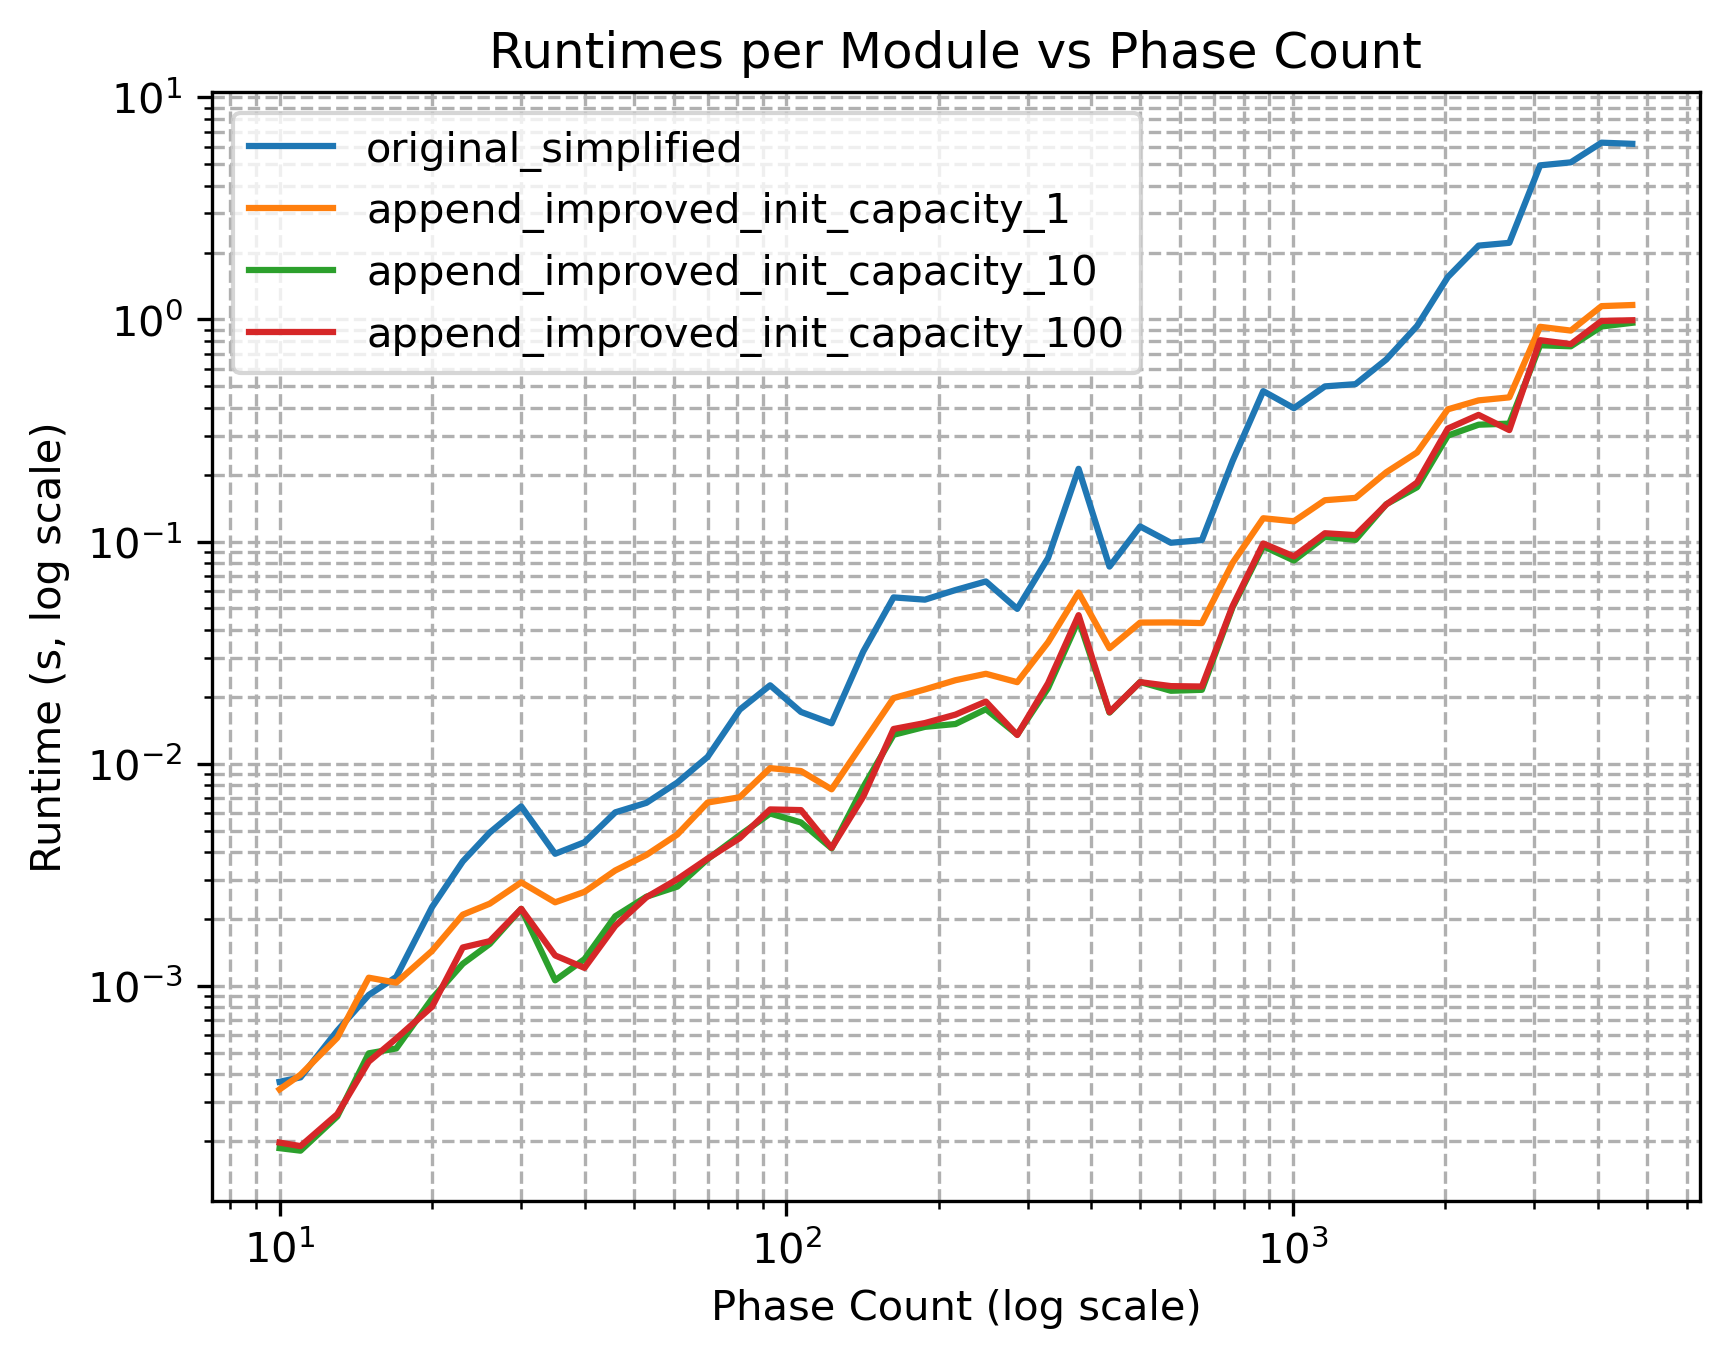
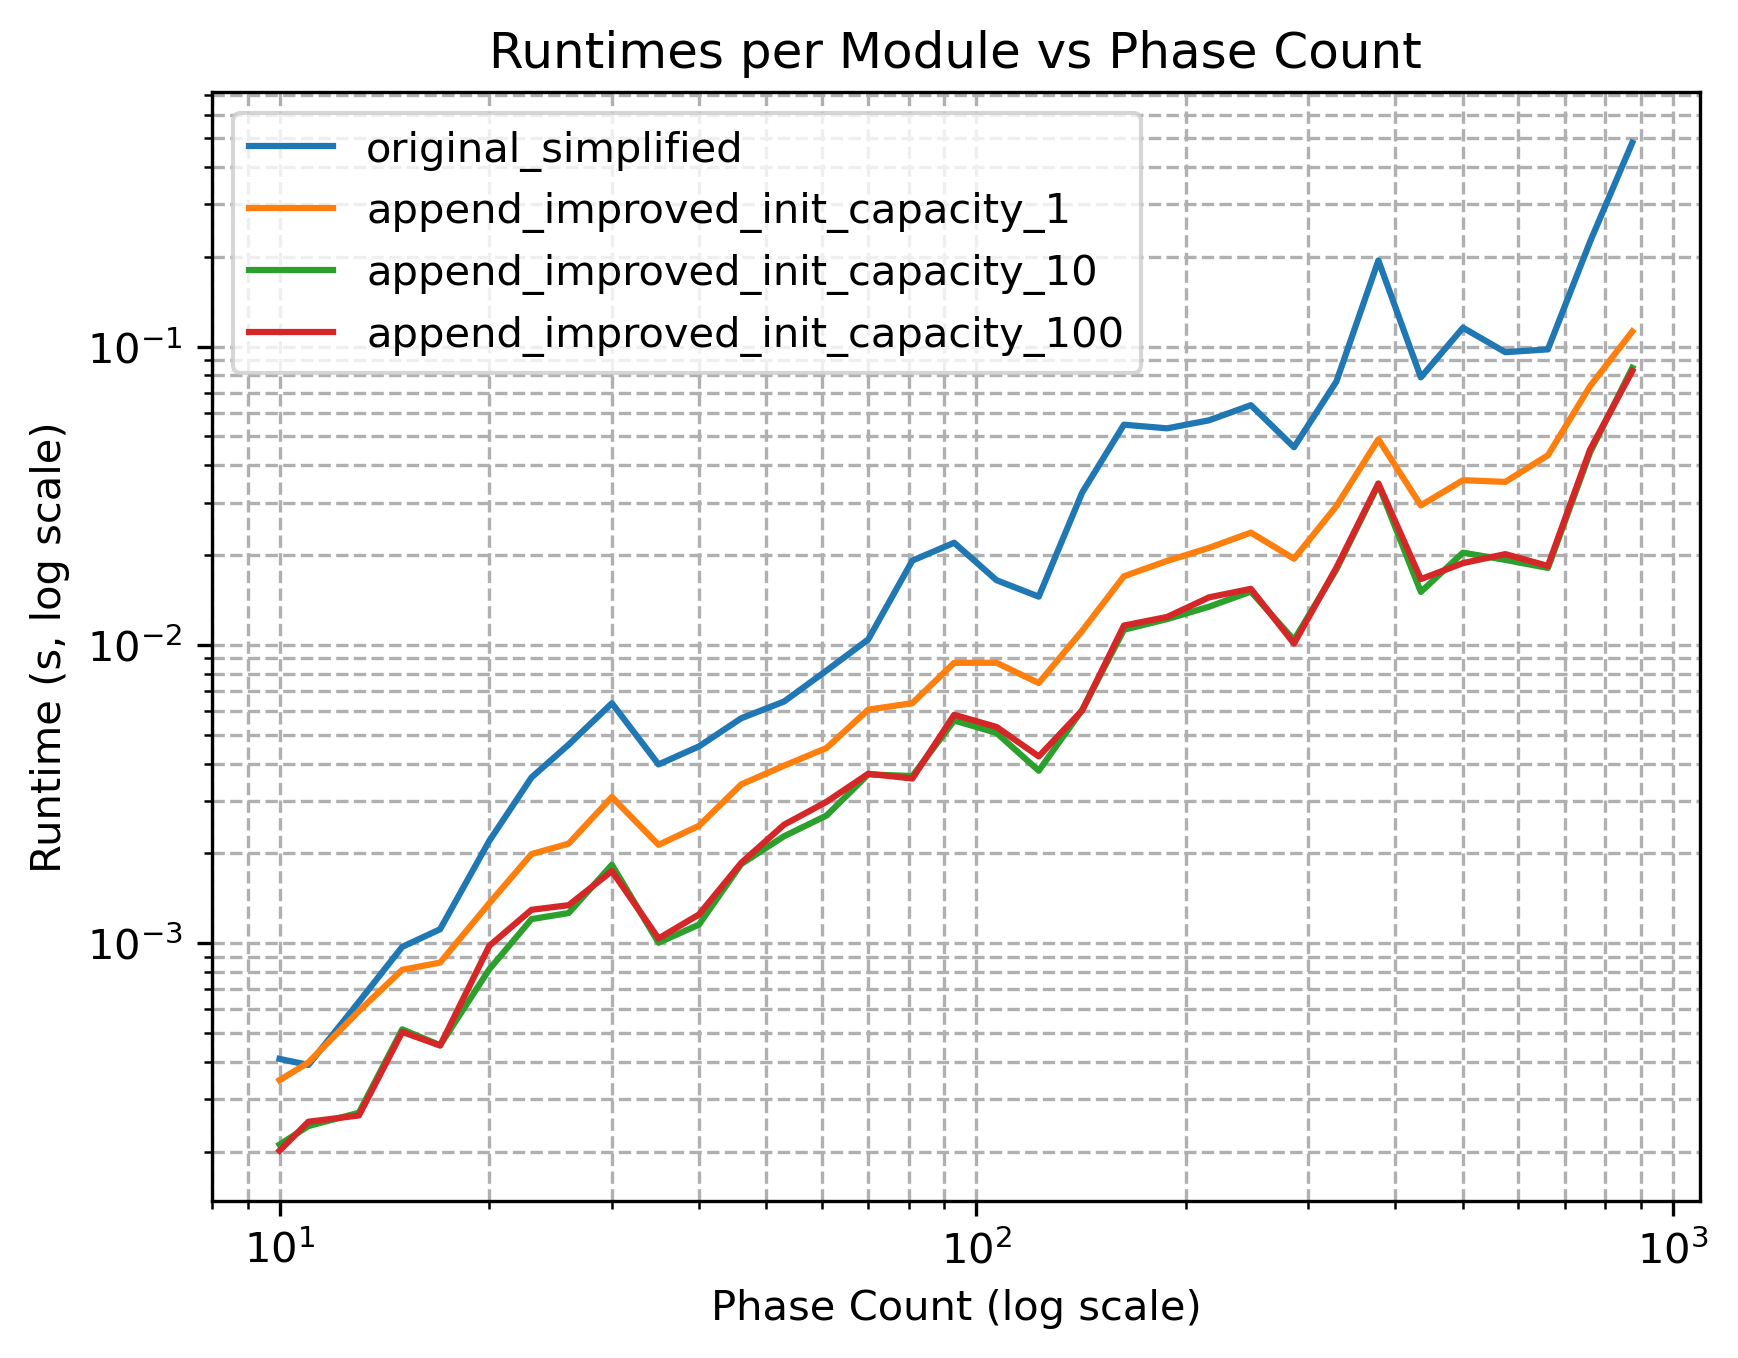
improved append version improved

Changed region(s): [[0.0312, 0.0309, 0.9994, 0.9278], [0.406, 0.8969, 0.6871, 0.9897], [0.1562, 0.8969, 0.1874, 0.9278]]

diff --git a/versions/append_improved_init_capacity_1/effective_energy_shift.py b/versions/append_improved_init_capacity_1/effective_energy_shift.py
@@ -31,11 +31,6 @@ def balance_phase(phase: efes_dataclasses.Phase):
 
         phase.energy_excess[phase.size_excess - 1] = phase.energy_deficit[phase.size_deficit - 1]
 
-        #phase.starts_excess = np.append(phase.starts_excess, new_start)
-        #phase.energy_excess = np.append(phase.energy_excess, energy_remaining)
-        #phase.excess_balanced = np.append(phase.excess_balanced, False)
-        #phase.excess_ids = np.append(phase.excess_ids, phase.excess_ids[phase.size_excess - 1])
-
         phase.append_excess(new_start, energy_remaining, False, phase.excess_ids[phase.size_excess - 1])
 
 
@@ -49,10 +44,6 @@ def balance_phase(phase: efes_dataclasses.Phase):
 
     phase.energy_deficit[phase.size_deficit - 1] = phase.energy_excess[phase.size_excess - 1]
     phase.deficit_balanced[phase.size_deficit - 1] = True
-
-    #phase.starts_deficit = np.append(phase.starts_deficit, new_start)
-    #phase.energy_deficit = np.append(phase.energy_deficit, energy_remaining)
-    #phase.deficit_balanced = np.append(phase.deficit_balanced, False)
 
     phase.append_deficit(new_start, energy_remaining, False)
 
@@ -83,23 +74,6 @@ def calculate_virtual_excess(current_phase, next_phase):
 
     return virtual_excess_start, virtual_excess_content, virtual_excess_id
 
-def add_excess_to_phase(phase, excess_start, excess_content, excess_id):
-    #phase.starts_excess = np.append(phase.starts_excess, excess_start)
-    #phase.energy_excess = np.append(phase.energy_excess, excess_content)
-    #phase.excess_balanced = np.append(phase.excess_balanced, False)
-    #phase.excess_ids = np.append(phase.excess_ids, excess_id)
-    phase.append_excess(excess_start, excess_content, False, excess_id)
-
-
-
-def remove_excess(phase, index_to_remove):
-    #phase.energy_excess = np.delete(phase.energy_excess, obj=index_to_remove)
-    #phase.starts_excess = np.delete(phase.starts_excess, obj=index_to_remove)
-    #phase.excess_balanced = np.delete(phase.excess_balanced, obj=index_to_remove)
-    #phase.excess_ids = np.delete(phase.excess_ids, obj=index_to_remove)
-    phase.remove_excess(index_to_remove)
-
-
 
 def move_overflow(phases, mask, callback_between_steps:callable = None, callback_kwargs={}):
 
@@ -112,19 +86,20 @@ def move_overflow(phases, mask, callback_between_steps:callable = None, callback
     virtual_excess = list(map(lambda args: calculate_virtual_excess(*args), zip(current_phases, next_phases)))
 
     # place virtual excess in next phase
-    list(map(lambda args: add_excess_to_phase(args[0], *args[1]), zip(phases[next_indices], virtual_excess)))
 
+    list(map(lambda args: args[0].append_excess(args[1][0], args[1][1], False, args[1][2]),
+             zip(phases[next_indices], virtual_excess)))
 
 
     if process_callback(callback_between_steps, 'shift', phases, mask, **callback_kwargs):
         return phases, mask, True
 
     # remove excess at index -2 where we had excess (mask[0]) and where virtual excess has been added (np.roll(mask[0], shift=1))
-    list(map(lambda phase: remove_excess(phase, -2), phases[mask[0] & add_virtual_excess_mask]))
+    list(map(lambda phase:  phase.remove_excess(-2), phases[mask[0] & add_virtual_excess_mask]))
 
 
     # remove excess at index -1 where we had excess (mask[0]) and no virtual excess has been added (not np.roll(mask[0], shift=1))
-    list(map(lambda phase: remove_excess(phase, -1), phases[mask[0] & ~add_virtual_excess_mask]))
+    list(map(lambda phase: phase.remove_excess(-1), phases[mask[0] & ~add_virtual_excess_mask]))
 
     # print(phases)
 

diff --git a/versions/append_improved_init_capacity_10/effective_energy_shift.py b/versions/append_improved_init_capacity_10/effective_energy_shift.py
@@ -31,11 +31,6 @@ def balance_phase(phase: efes_dataclasses.Phase):
 
         phase.energy_excess[phase.size_excess - 1] = phase.energy_deficit[phase.size_deficit - 1]
 
-        #phase.starts_excess = np.append(phase.starts_excess, new_start)
-        #phase.energy_excess = np.append(phase.energy_excess, energy_remaining)
-        #phase.excess_balanced = np.append(phase.excess_balanced, False)
-        #phase.excess_ids = np.append(phase.excess_ids, phase.excess_ids[phase.size_excess - 1])
-
         phase.append_excess(new_start, energy_remaining, False, phase.excess_ids[phase.size_excess - 1])
 
 
@@ -49,10 +44,6 @@ def balance_phase(phase: efes_dataclasses.Phase):
 
     phase.energy_deficit[phase.size_deficit - 1] = phase.energy_excess[phase.size_excess - 1]
     phase.deficit_balanced[phase.size_deficit - 1] = True
-
-    #phase.starts_deficit = np.append(phase.starts_deficit, new_start)
-    #phase.energy_deficit = np.append(phase.energy_deficit, energy_remaining)
-    #phase.deficit_balanced = np.append(phase.deficit_balanced, False)
 
     phase.append_deficit(new_start, energy_remaining, False)
 
@@ -83,23 +74,6 @@ def calculate_virtual_excess(current_phase, next_phase):
 
     return virtual_excess_start, virtual_excess_content, virtual_excess_id
 
-def add_excess_to_phase(phase, excess_start, excess_content, excess_id):
-    #phase.starts_excess = np.append(phase.starts_excess, excess_start)
-    #phase.energy_excess = np.append(phase.energy_excess, excess_content)
-    #phase.excess_balanced = np.append(phase.excess_balanced, False)
-    #phase.excess_ids = np.append(phase.excess_ids, excess_id)
-    phase.append_excess(excess_start, excess_content, False, excess_id)
-
-
-
-def remove_excess(phase, index_to_remove):
-    #phase.energy_excess = np.delete(phase.energy_excess, obj=index_to_remove)
-    #phase.starts_excess = np.delete(phase.starts_excess, obj=index_to_remove)
-    #phase.excess_balanced = np.delete(phase.excess_balanced, obj=index_to_remove)
-    #phase.excess_ids = np.delete(phase.excess_ids, obj=index_to_remove)
-    phase.remove_excess(index_to_remove)
-
-
 
 def move_overflow(phases, mask, callback_between_steps:callable = None, callback_kwargs={}):
 
@@ -112,19 +86,20 @@ def move_overflow(phases, mask, callback_between_steps:callable = None, callback
     virtual_excess = list(map(lambda args: calculate_virtual_excess(*args), zip(current_phases, next_phases)))
 
     # place virtual excess in next phase
-    list(map(lambda args: add_excess_to_phase(args[0], *args[1]), zip(phases[next_indices], virtual_excess)))
 
+    list(map(lambda args: args[0].append_excess(args[1][0], args[1][1], False, args[1][2]),
+             zip(phases[next_indices], virtual_excess)))
 
 
     if process_callback(callback_between_steps, 'shift', phases, mask, **callback_kwargs):
         return phases, mask, True
 
     # remove excess at index -2 where we had excess (mask[0]) and where virtual excess has been added (np.roll(mask[0], shift=1))
-    list(map(lambda phase: remove_excess(phase, -2), phases[mask[0] & add_virtual_excess_mask]))
+    list(map(lambda phase:  phase.remove_excess(-2), phases[mask[0] & add_virtual_excess_mask]))
 
 
     # remove excess at index -1 where we had excess (mask[0]) and no virtual excess has been added (not np.roll(mask[0], shift=1))
-    list(map(lambda phase: remove_excess(phase, -1), phases[mask[0] & ~add_virtual_excess_mask]))
+    list(map(lambda phase: phase.remove_excess(-1), phases[mask[0] & ~add_virtual_excess_mask]))
 
     # print(phases)
 

diff --git a/versions/append_improved_init_capacity_100/effective_energy_shift.py b/versions/append_improved_init_capacity_100/effective_energy_shift.py
@@ -31,11 +31,6 @@ def balance_phase(phase: efes_dataclasses.Phase):
 
         phase.energy_excess[phase.size_excess - 1] = phase.energy_deficit[phase.size_deficit - 1]
 
-        #phase.starts_excess = np.append(phase.starts_excess, new_start)
-        #phase.energy_excess = np.append(phase.energy_excess, energy_remaining)
-        #phase.excess_balanced = np.append(phase.excess_balanced, False)
-        #phase.excess_ids = np.append(phase.excess_ids, phase.excess_ids[phase.size_excess - 1])
-
         phase.append_excess(new_start, energy_remaining, False, phase.excess_ids[phase.size_excess - 1])
 
 
@@ -49,10 +44,6 @@ def balance_phase(phase: efes_dataclasses.Phase):
 
     phase.energy_deficit[phase.size_deficit - 1] = phase.energy_excess[phase.size_excess - 1]
     phase.deficit_balanced[phase.size_deficit - 1] = True
-
-    #phase.starts_deficit = np.append(phase.starts_deficit, new_start)
-    #phase.energy_deficit = np.append(phase.energy_deficit, energy_remaining)
-    #phase.deficit_balanced = np.append(phase.deficit_balanced, False)
 
     phase.append_deficit(new_start, energy_remaining, False)
 
@@ -83,23 +74,6 @@ def calculate_virtual_excess(current_phase, next_phase):
 
     return virtual_excess_start, virtual_excess_content, virtual_excess_id
 
-def add_excess_to_phase(phase, excess_start, excess_content, excess_id):
-    #phase.starts_excess = np.append(phase.starts_excess, excess_start)
-    #phase.energy_excess = np.append(phase.energy_excess, excess_content)
-    #phase.excess_balanced = np.append(phase.excess_balanced, False)
-    #phase.excess_ids = np.append(phase.excess_ids, excess_id)
-    phase.append_excess(excess_start, excess_content, False, excess_id)
-
-
-
-def remove_excess(phase, index_to_remove):
-    #phase.energy_excess = np.delete(phase.energy_excess, obj=index_to_remove)
-    #phase.starts_excess = np.delete(phase.starts_excess, obj=index_to_remove)
-    #phase.excess_balanced = np.delete(phase.excess_balanced, obj=index_to_remove)
-    #phase.excess_ids = np.delete(phase.excess_ids, obj=index_to_remove)
-    phase.remove_excess(index_to_remove)
-
-
 
 def move_overflow(phases, mask, callback_between_steps:callable = None, callback_kwargs={}):
 
@@ -112,19 +86,20 @@ def move_overflow(phases, mask, callback_between_steps:callable = None, callback
     virtual_excess = list(map(lambda args: calculate_virtual_excess(*args), zip(current_phases, next_phases)))
 
     # place virtual excess in next phase
-    list(map(lambda args: add_excess_to_phase(args[0], *args[1]), zip(phases[next_indices], virtual_excess)))
 
+    list(map(lambda args: args[0].append_excess(args[1][0], args[1][1], False, args[1][2]),
+             zip(phases[next_indices], virtual_excess)))
 
 
     if process_callback(callback_between_steps, 'shift', phases, mask, **callback_kwargs):
         return phases, mask, True
 
     # remove excess at index -2 where we had excess (mask[0]) and where virtual excess has been added (np.roll(mask[0], shift=1))
-    list(map(lambda phase: remove_excess(phase, -2), phases[mask[0] & add_virtual_excess_mask]))
+    list(map(lambda phase:  phase.remove_excess(-2), phases[mask[0] & add_virtual_excess_mask]))
 
 
     # remove excess at index -1 where we had excess (mask[0]) and no virtual excess has been added (not np.roll(mask[0], shift=1))
-    list(map(lambda phase: remove_excess(phase, -1), phases[mask[0] & ~add_virtual_excess_mask]))
+    list(map(lambda phase: phase.remove_excess(-1), phases[mask[0] & ~add_virtual_excess_mask]))
 
     # print(phases)
 

diff --git a/versions/append_improved_init_capacity_1/efes_dataclasses.py b/versions/append_improved_init_capacity_1/efes_dataclasses.py
@@ -1,3 +1,5 @@
+import sys
+
 import numpy as np
 from dataclasses import dataclass
 @dataclass
@@ -67,21 +69,31 @@ class Phase:
 
         if index_to_remove < 0:
             index_to_remove += self.size_excess
-
         if not (0 <= index_to_remove < self.size_excess):
             raise IndexError(f"Index {index_to_remove} out of valid range (0 to {self.size_excess - 1}).")
 
-        if index_to_remove < self.size_excess - 1:
-            self.energy_excess[index_to_remove:-1] = self.energy_excess[index_to_remove + 1: self.size_excess]
-            self.starts_excess[index_to_remove:-1] = self.starts_excess[index_to_remove + 1: self.size_excess]
-            self.excess_balanced[index_to_remove:-1] = self.excess_balanced[index_to_remove + 1: self.size_excess]
-            self.excess_ids[index_to_remove:-1] = self.excess_ids[index_to_remove + 1: self.size_excess]
+        last_idx = self.size_excess - 1
 
-        self.energy_excess[self.size_excess - 1] = invalid_value
-        self.starts_excess[self.size_excess - 1] = invalid_value
-        self.excess_balanced[self.size_excess - 1] = invalid_value
+        if index_to_remove == last_idx - 1:
+            self.energy_excess[index_to_remove] = self.energy_excess[last_idx]
+            self.starts_excess[index_to_remove] = self.starts_excess[last_idx]
+            self.excess_balanced[index_to_remove] = self.excess_balanced[last_idx]
+            self.excess_ids[index_to_remove] = self.excess_ids[last_idx]
 
-        self.excess_ids[self.size_excess - 1] = invalid_value
+        self.energy_excess[last_idx] = invalid_value
+        self.starts_excess[last_idx] = invalid_value
+        self.excess_balanced[last_idx] = invalid_value
+        self.excess_ids[last_idx] = invalid_value
+
+        #else:
+            #self.energy_excess[index_to_remove:-1] = self.energy_excess[index_to_remove + 1:self.size_excess]
+            #self.starts_excess[index_to_remove:-1] = self.starts_excess[index_to_remove + 1:self.size_excess]
+            #self.excess_balanced[index_to_remove:-1] = self.excess_balanced[index_to_remove + 1:self.size_excess]
+            #self.excess_ids[index_to_remove:-1] = self.excess_ids[index_to_remove + 1:self.size_excess]
+            #self.energy_excess[last_idx] = invalid_value
+            #self.starts_excess[last_idx] = invalid_value
+            #self.excess_balanced[last_idx] = invalid_value
+            #self.excess_ids[last_idx] = invalid_value
 
         self.size_excess -= 1
 

diff --git a/versions/append_improved_init_capacity_10/efes_dataclasses.py b/versions/append_improved_init_capacity_10/efes_dataclasses.py
@@ -1,3 +1,5 @@
+import sys
+
 import numpy as np
 from dataclasses import dataclass
 @dataclass
@@ -67,21 +69,31 @@ class Phase:
 
         if index_to_remove < 0:
             index_to_remove += self.size_excess
-
         if not (0 <= index_to_remove < self.size_excess):
             raise IndexError(f"Index {index_to_remove} out of valid range (0 to {self.size_excess - 1}).")
 
-        if index_to_remove < self.size_excess - 1:
-            self.energy_excess[index_to_remove:-1] = self.energy_excess[index_to_remove + 1: self.size_excess]
-            self.starts_excess[index_to_remove:-1] = self.starts_excess[index_to_remove + 1: self.size_excess]
-            self.excess_balanced[index_to_remove:-1] = self.excess_balanced[index_to_remove + 1: self.size_excess]
-            self.excess_ids[index_to_remove:-1] = self.excess_ids[index_to_remove + 1: self.size_excess]
+        last_idx = self.size_excess - 1
 
-        self.energy_excess[self.size_excess - 1] = invalid_value
-        self.starts_excess[self.size_excess - 1] = invalid_value
-        self.excess_balanced[self.size_excess - 1] = invalid_value
+        if index_to_remove == last_idx - 1:
+            self.energy_excess[index_to_remove] = self.energy_excess[last_idx]
+            self.starts_excess[index_to_remove] = self.starts_excess[last_idx]
+            self.excess_balanced[index_to_remove] = self.excess_balanced[last_idx]
+            self.excess_ids[index_to_remove] = self.excess_ids[last_idx]
 
-        self.excess_ids[self.size_excess - 1] = invalid_value
+        self.energy_excess[last_idx] = invalid_value
+        self.starts_excess[last_idx] = invalid_value
+        self.excess_balanced[last_idx] = invalid_value
+        self.excess_ids[last_idx] = invalid_value
+
+        #else:
+            #self.energy_excess[index_to_remove:-1] = self.energy_excess[index_to_remove + 1:self.size_excess]
+            #self.starts_excess[index_to_remove:-1] = self.starts_excess[index_to_remove + 1:self.size_excess]
+            #self.excess_balanced[index_to_remove:-1] = self.excess_balanced[index_to_remove + 1:self.size_excess]
+            #self.excess_ids[index_to_remove:-1] = self.excess_ids[index_to_remove + 1:self.size_excess]
+            #self.energy_excess[last_idx] = invalid_value
+            #self.starts_excess[last_idx] = invalid_value
+            #self.excess_balanced[last_idx] = invalid_value
+            #self.excess_ids[last_idx] = invalid_value
 
         self.size_excess -= 1
 

diff --git a/versions/append_improved_init_capacity_100/efes_dataclasses.py b/versions/append_improved_init_capacity_100/efes_dataclasses.py
@@ -1,3 +1,5 @@
+import sys
+
 import numpy as np
 from dataclasses import dataclass
 @dataclass
@@ -67,21 +69,31 @@ class Phase:
 
         if index_to_remove < 0:
             index_to_remove += self.size_excess
-
         if not (0 <= index_to_remove < self.size_excess):
             raise IndexError(f"Index {index_to_remove} out of valid range (0 to {self.size_excess - 1}).")
 
-        if index_to_remove < self.size_excess - 1:
-            self.energy_excess[index_to_remove:-1] = self.energy_excess[index_to_remove + 1: self.size_excess]
-            self.starts_excess[index_to_remove:-1] = self.starts_excess[index_to_remove + 1: self.size_excess]
-            self.excess_balanced[index_to_remove:-1] = self.excess_balanced[index_to_remove + 1: self.size_excess]
-            self.excess_ids[index_to_remove:-1] = self.excess_ids[index_to_remove + 1: self.size_excess]
+        last_idx = self.size_excess - 1
 
-        self.energy_excess[self.size_excess - 1] = invalid_value
-        self.starts_excess[self.size_excess - 1] = invalid_value
-        self.excess_balanced[self.size_excess - 1] = invalid_value
+        if index_to_remove == last_idx - 1:
+            self.energy_excess[index_to_remove] = self.energy_excess[last_idx]
+            self.starts_excess[index_to_remove] = self.starts_excess[last_idx]
+            self.excess_balanced[index_to_remove] = self.excess_balanced[last_idx]
+            self.excess_ids[index_to_remove] = self.excess_ids[last_idx]
 
-        self.excess_ids[self.size_excess - 1] = invalid_value
+        self.energy_excess[last_idx] = invalid_value
+        self.starts_excess[last_idx] = invalid_value
+        self.excess_balanced[last_idx] = invalid_value
+        self.excess_ids[last_idx] = invalid_value
+
+        #else:
+            #self.energy_excess[index_to_remove:-1] = self.energy_excess[index_to_remove + 1:self.size_excess]
+            #self.starts_excess[index_to_remove:-1] = self.starts_excess[index_to_remove + 1:self.size_excess]
+            #self.excess_balanced[index_to_remove:-1] = self.excess_balanced[index_to_remove + 1:self.size_excess]
+            #self.excess_ids[index_to_remove:-1] = self.excess_ids[index_to_remove + 1:self.size_excess]
+            #self.energy_excess[last_idx] = invalid_value
+            #self.starts_excess[last_idx] = invalid_value
+            #self.excess_balanced[last_idx] = invalid_value
+            #self.excess_ids[last_idx] = invalid_value
 
         self.size_excess -= 1
 
